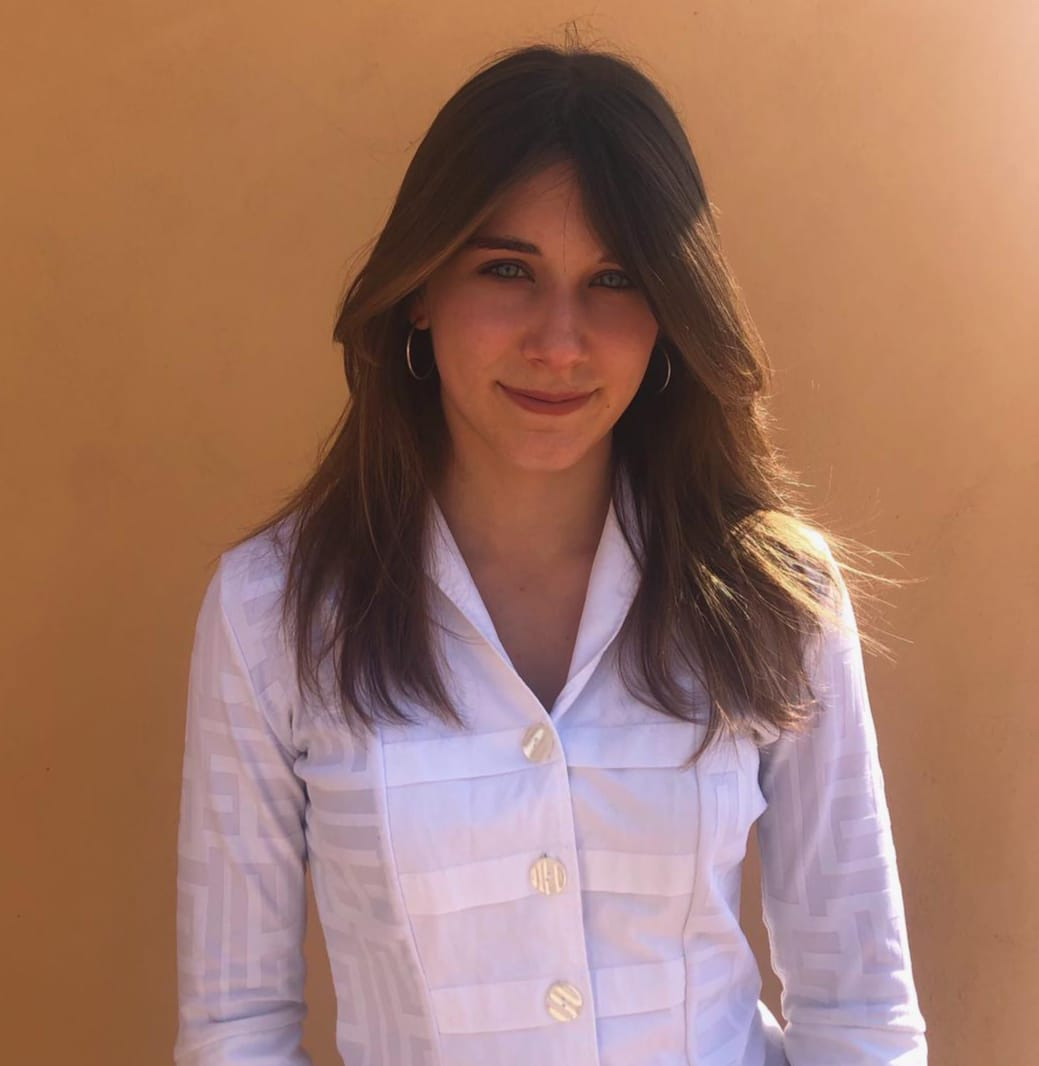
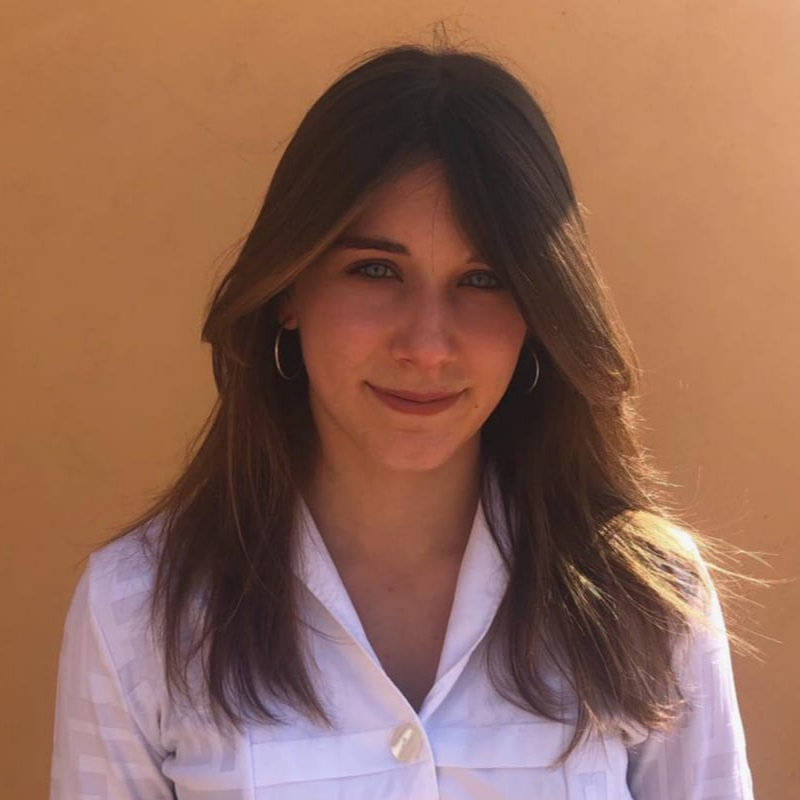
ridimensiomento foto

diff --git a/team.html b/team.html
@@ -353,9 +353,9 @@
 
 	           
 					<div class="brick folio-item" style="padding-right: 4% ">
-	               <div class="item-wrap animate-this"  data-src="images/team/noemi.jpg"  data-sub-html="#06">     	
+	               <div class="item-wrap animate-this"  data-src="images/team/noemi.jpeg"  data-sub-html="#06">     	
 	                  <a href="#" class="overlay">
-	                  	<img src="images/team/noemi.jpg" alt="Salad">	                     
+	                  	<img src="images/team/noemi.jpeg" alt="Salad">	                     
 	                     <div class="item-text">	     					    
 		     					   <span class="folio-types">
 		     					      Innovative Design Responsible
